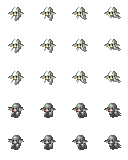
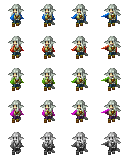
Fixed wolfskin-f

diff --git a/splitter.py b/splitter.py
@@ -409,6 +409,9 @@ HEAD_PARAMS = {
         'offset': [(-1,2),(-1,2),(-1,1),(-1,1),],
         'size': 'large',
         },
+    'wolfskin-f': {
+        'offset': [(0,3),]*4,
+        },
     'wyvern-lord': {
         'offset': [(-2,0),(-2,-2),(-2,-1),(-2,-1),],
         'size': 'small',
@@ -660,15 +663,19 @@ def process(hd, bd, hoff, boff, alpha, outdir):
 
     replace_colors(himg)
     replace_colors(bimg)
-    
-    offset = [(0,0), (0,0), (0,0), (0,0)]
+
+    headParams = {
+        'offset': [(0,0)]*4,
+        'size': 'large',
+        }
 
 
     if bbase in HEAD_PARAMS:
-        offset = HEAD_PARAMS[bbase]['offset'][:]
-        hsize = HEAD_PARAMS[bbase]['size']
+        headParams.update(HEAD_PARAMS[bbase])
 
     #offset = offset[1:4] + [offset[0]]
+    offset = headParams['offset'][:]
+    hsize = headParams['size']
     head = CROP['head']['idle'][hsize]
     
     xStart, yStart = head['start']
